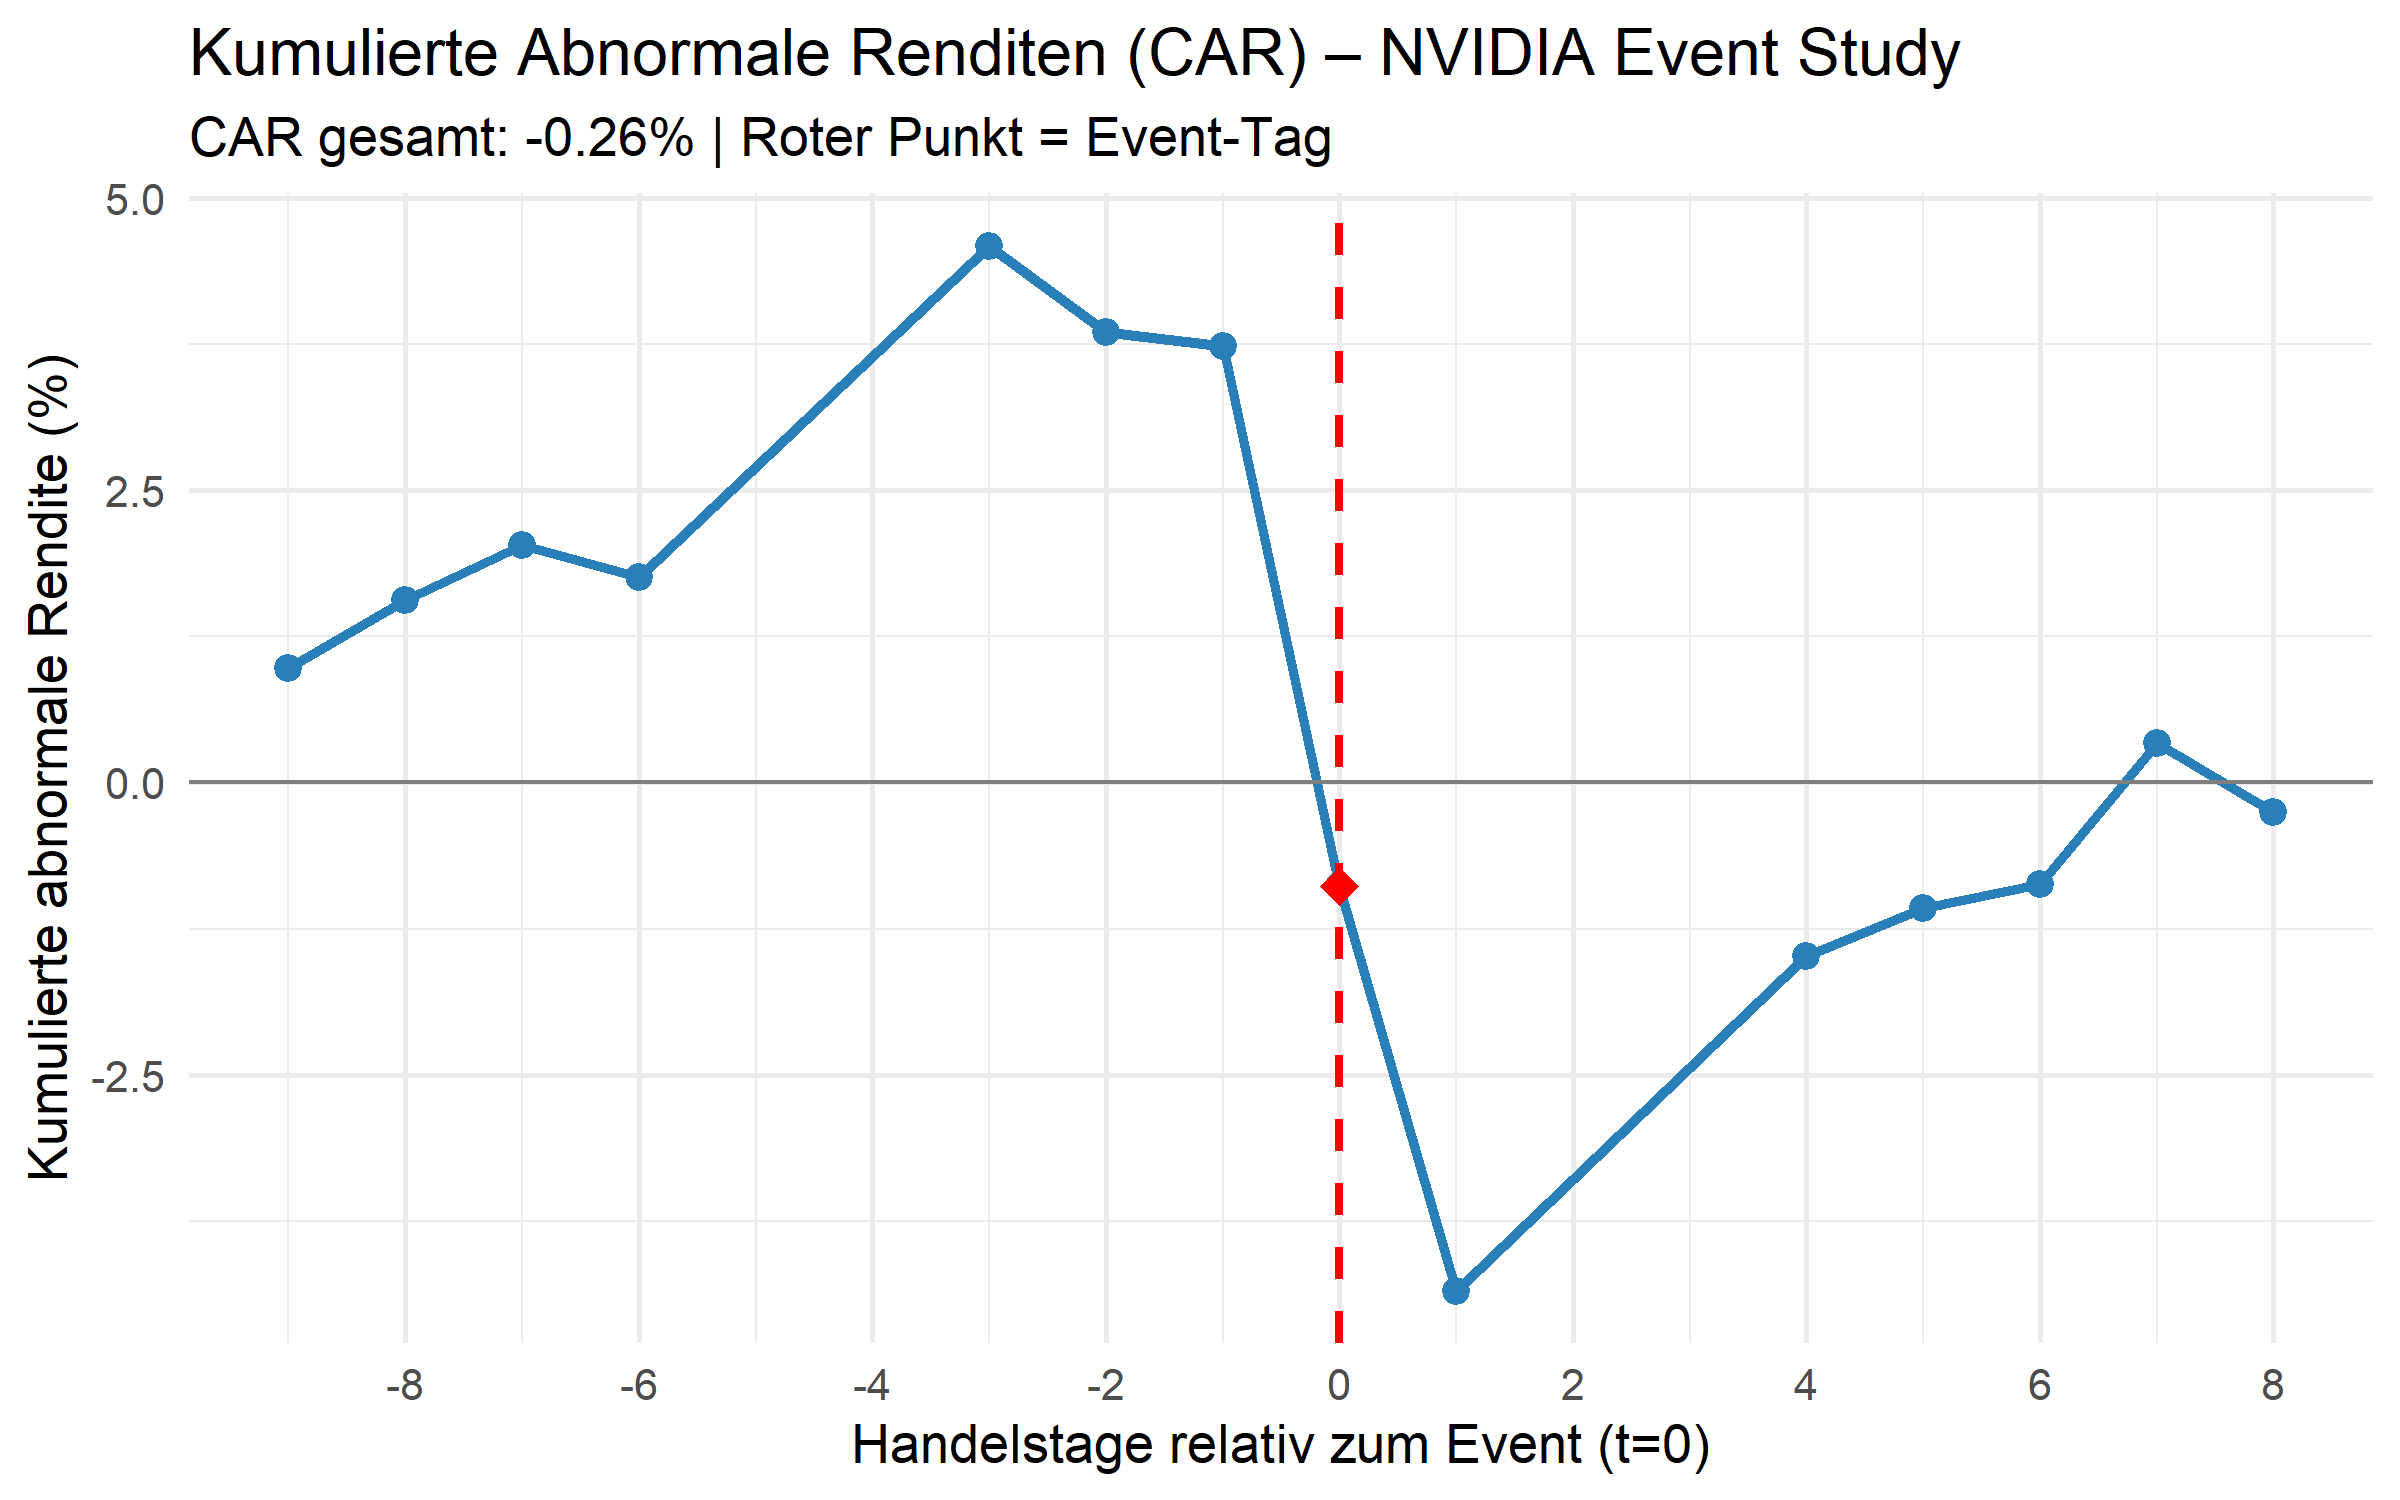
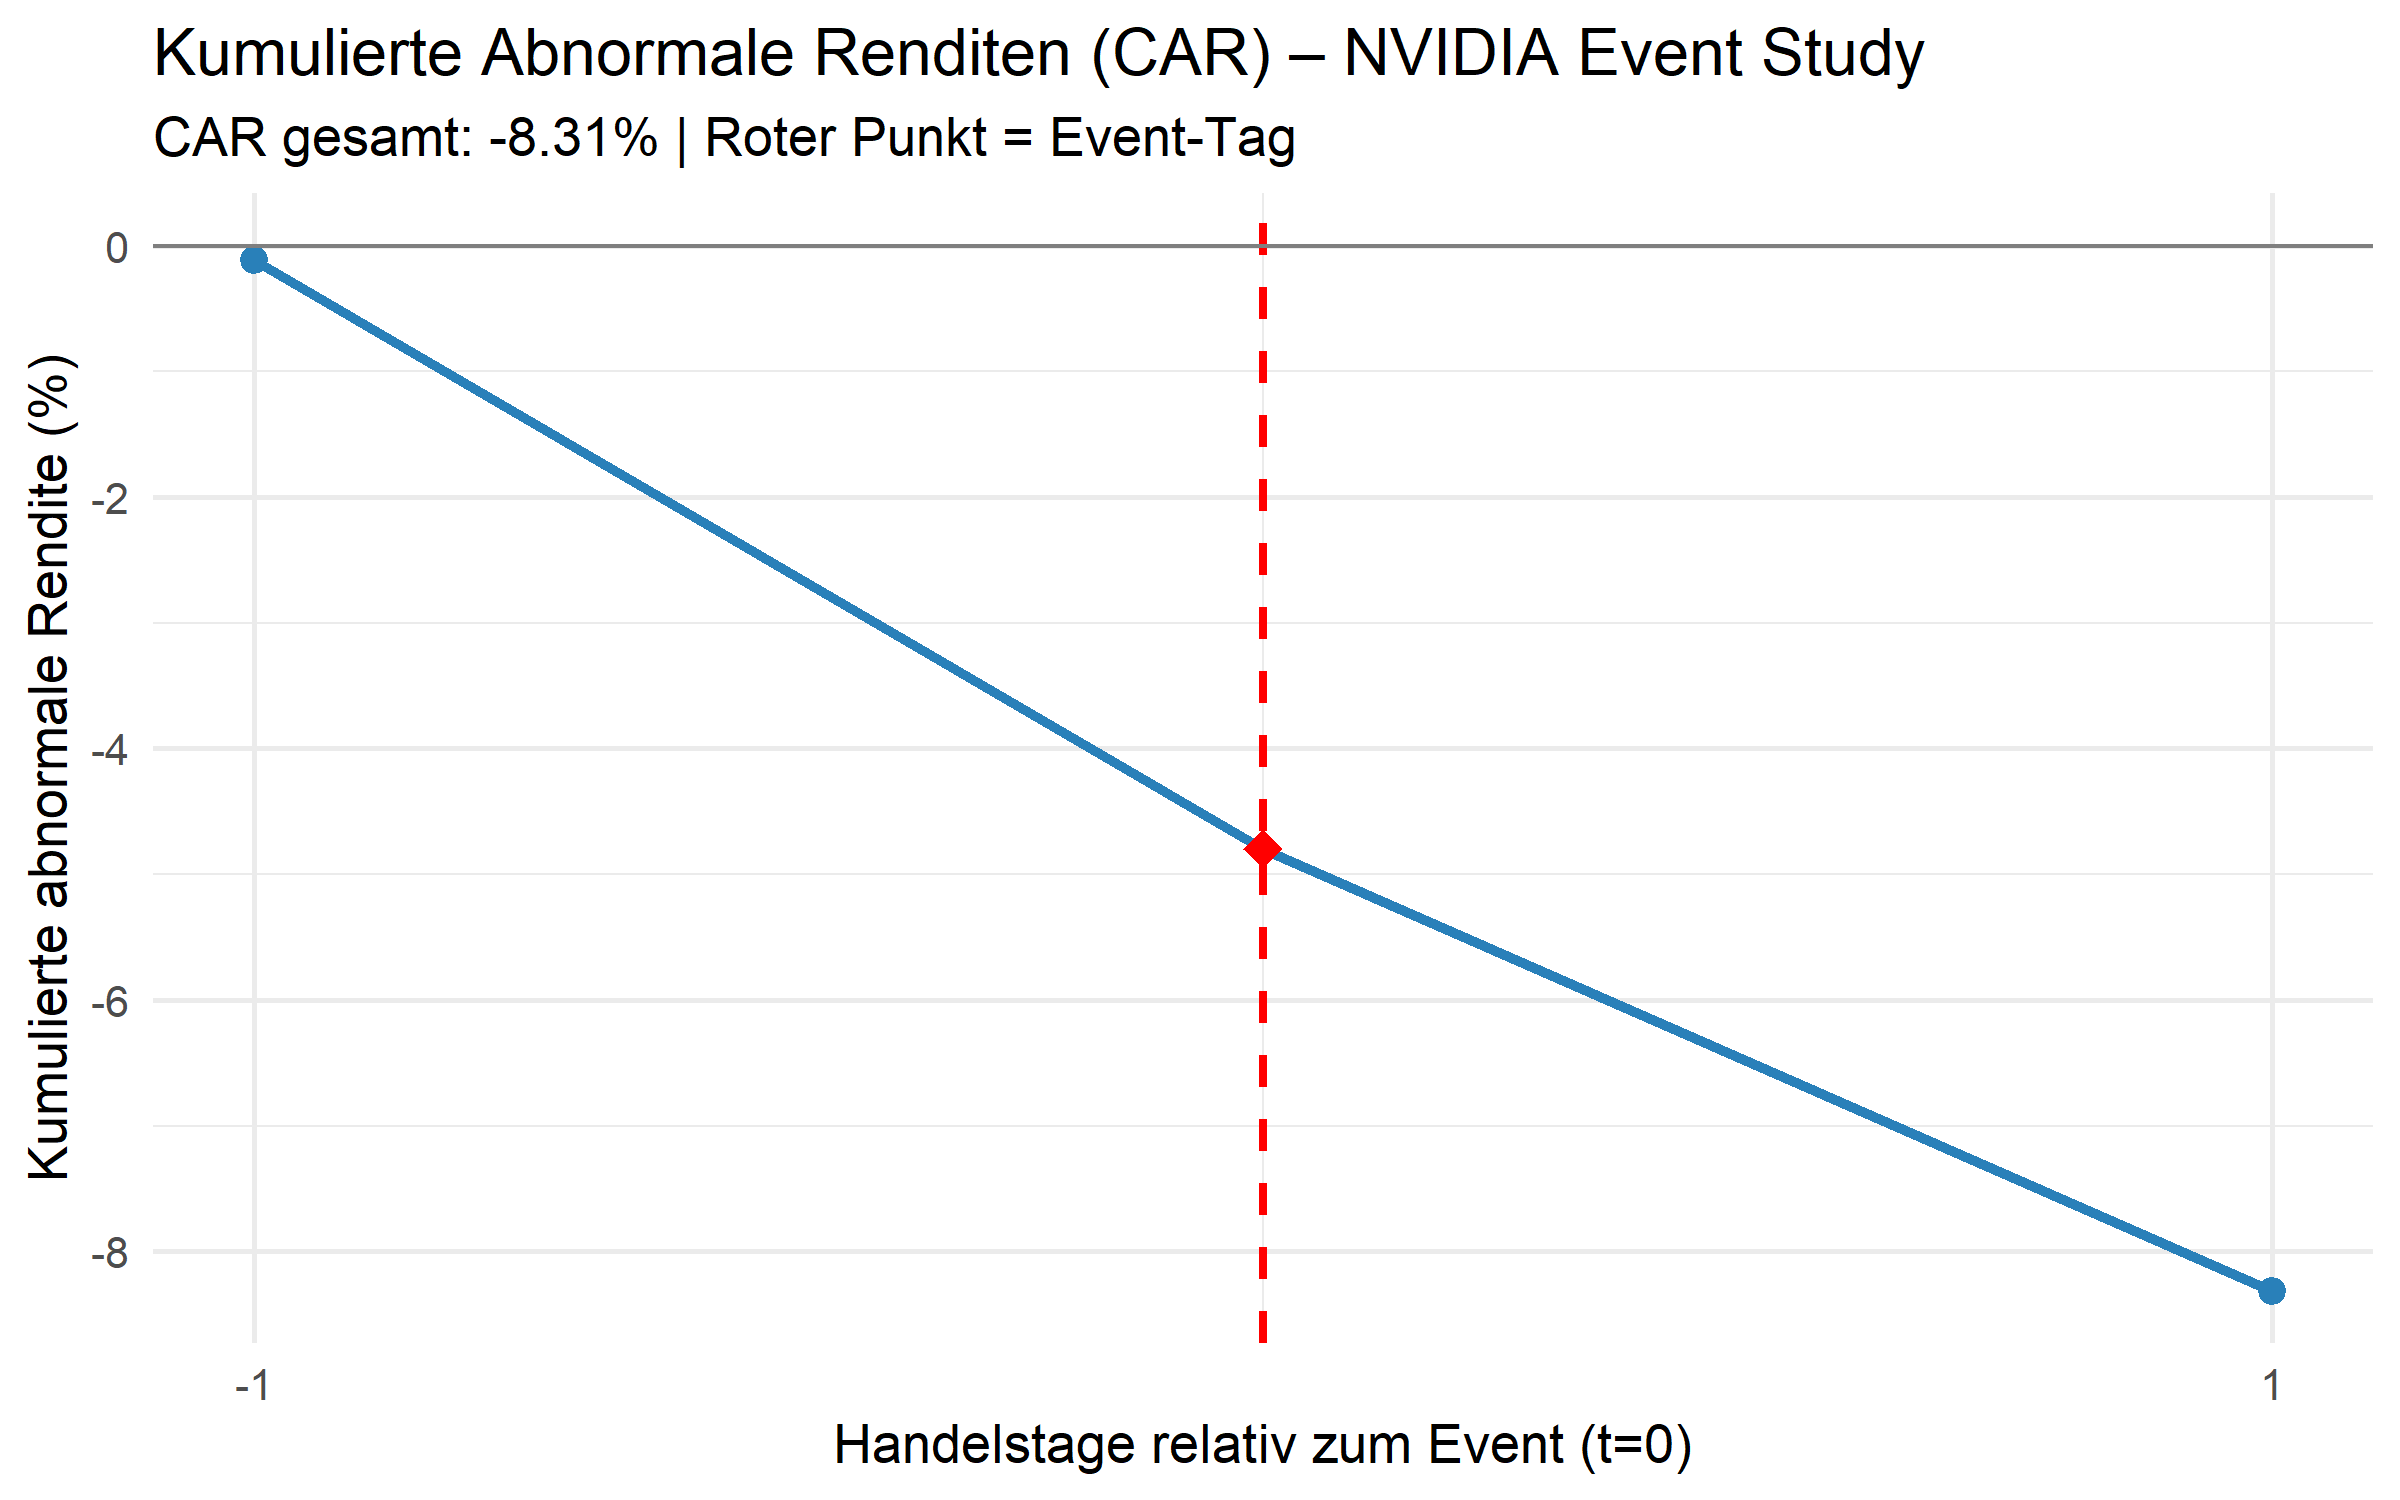
30.04.

diff --git a/README.md b/README.md
@@ -2,14 +2,14 @@
 
 Klassische **Event Study** in R zur Analyse der abnormalen Rendite der NVIDIA-Aktie rund um die Q4 FY2025-Quartalsergebnisse am **26. Februar 2026**.
 
-## Hintergrund **TODO DATUM CHECK**
+## Hintergrund
 
 NVIDIA veröffentlichte am 25. Februar 2026 (nach Börsenschluss) Rekordergebnisse (Umsatz +100% YoY). Trotzdem reagierte die Börse mit Kursverlusten von ca. -5%. Dieses Projekt untersucht mithilfe des **CAPM-Modells**, wie stark diese Reaktion von der statistisch erwarteten Rendite abwich.
 
 ## **Wichtiger Hinweis zum Event-Tag:**
 Da die News erst *nach* Handelsende am 25.02. veröffentlicht wurden, ist das statistische Event-Datum ($t=0$) im Code auf den **26.02.2026** gesetzt. Das ist der erste Tag, an dem der Markt auf die Informationen reagieren konnte.
 
-## Methodik (MacKinlay 1997)
+## Methodik 
 
 | Schritt | Beschreibung |
 |---|---|
@@ -30,25 +30,22 @@ CAR         = Σ AR_t
 ## Voraussetzungen
 
 - R (Version 4.0 oder höher)
-- Pakete einmalig installieren:
-
-```r
-install.packages(c("quantmod", "ggplot2", "dplyr", "lubridate"))
-```
+- Die benötigten Pakete werden beim ersten Start automatisch geprüft und installiert.
 
 ## Schnellstart
 
+Um die gesamte Analyse (Datenladen, Schätzung, Berechnung der AR/CAR und Plots) auszuführen, öffne das Projekt in RStudio und führe das Hauptskript aus:
+
 ```r
-source("event_study_nvidia.R")
-```
+source("main.R")
 
 ## Parameter anpassen
 
 ```r
 event_date        <- as.Date("2026-02-26")  # Datum des Events
-event_window_pre  <- 10                      # Tage VOR dem Event
-event_window_post <- 10                      # Tage NACH dem Event
-estimation_days   <- 120                     # Länge des Estimation Windows
+event_window_pre  <- 1                      # Tage VOR dem Event
+event_window_post <- 1                      # Tage NACH dem Event
+estimation_days   <- 252                    # Länge des Estimation Windows
 ticker_stock      <- "NVDA"                  # Aktie (z.B. "AAPL", "MSFT" ...)
 ticker_market     <- "^GSPC"                 # Marktindex
 ```
@@ -70,10 +67,5 @@ ticker_market     <- "^GSPC"                 # Marktindex
 | CAR < 0 | Negative Gesamtreaktion über das Event Window |
 | β > 1 | NVIDIA volatiler als der Gesamtmarkt |
 
-## Literatur
 
-MacKinlay, A. C. (1997). Event Studies in Economics and Finance. *Journal of Economic Literature*, 35(1), 13–39.
 
-## Lizenz
-
-MIT – frei verwendbar für Lehr- und Lernzwecke.
